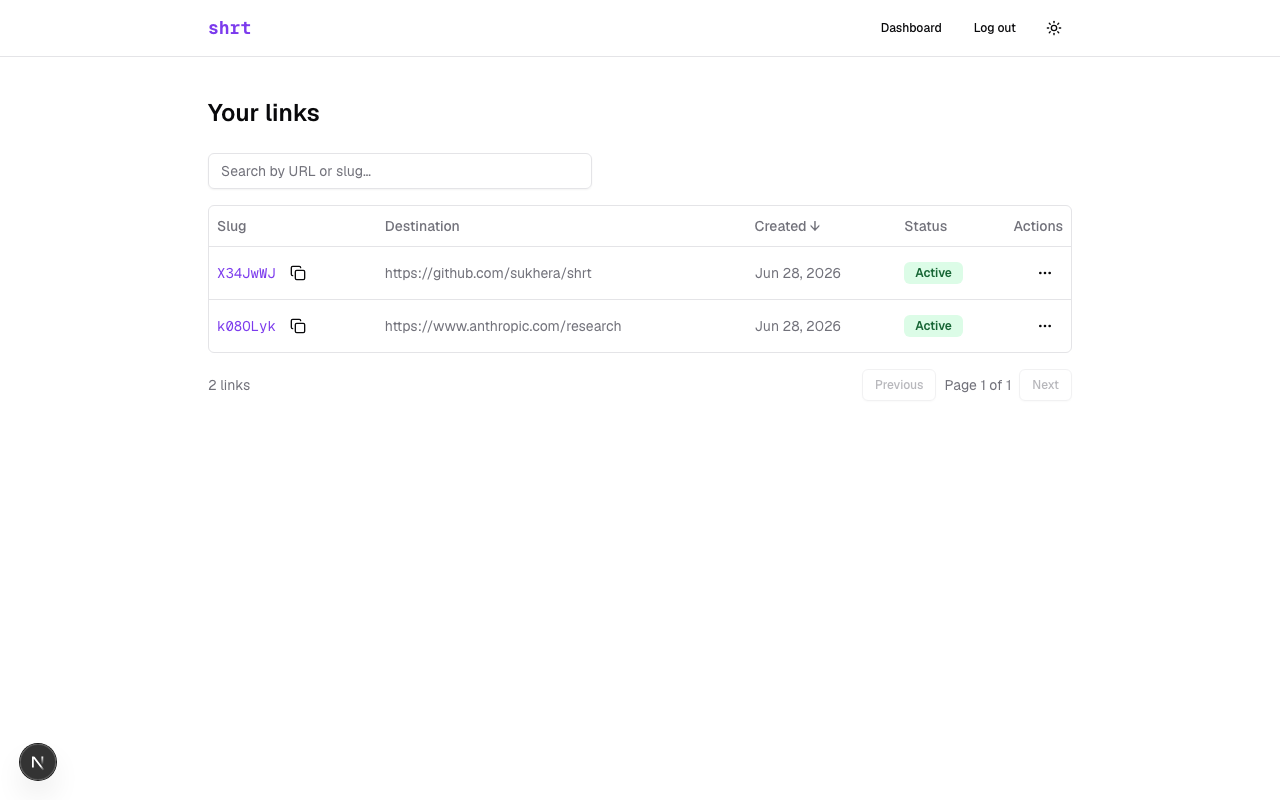
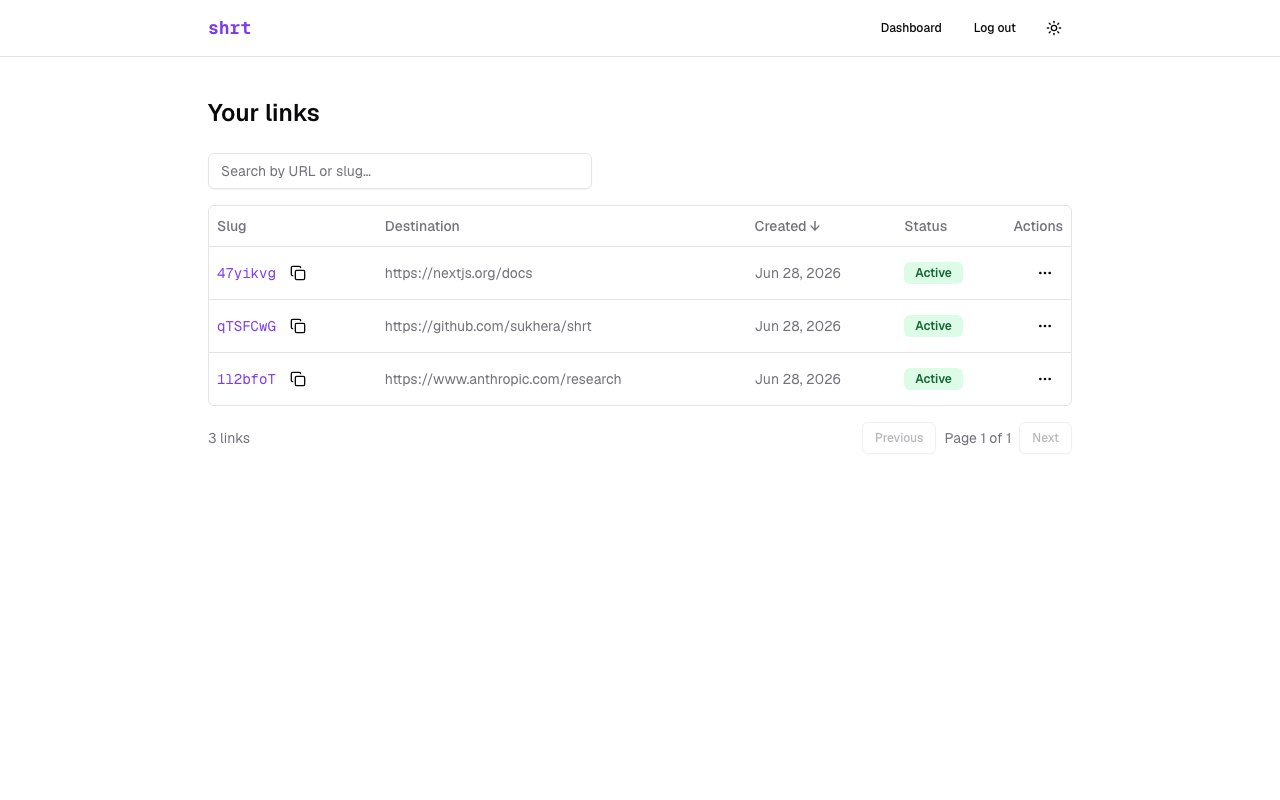
docs: polish README to OSS best practices, add LICENSE
- Rewrite README as a public-project README: centered hero, shields.io
  badges (license, Go, Next.js, TypeScript, PRs welcome), feature list,
  tech-stack table, quickstart, architecture overview, testing, and a
  configuration section
- Drop the deployment-options section (out of scope for the README)
- Recapture screenshots against a production build with BASE_URL set, so
  short URLs read https://shrt.app/<slug> and there is no dev-mode badge
- Add the MIT LICENSE file the README references (was claimed but missing)

diff --git a/README.md b/README.md
@@ -1,155 +1,150 @@
+<div align="center">
+
 # shrt
 
-A clean, self-hostable URL shortener. MIT licensed.
+**A clean, self-hostable URL shortener.**
 
-**Live instance:** coming soon  
-**Repository:** https://github.com/sukhera/shrt
+Shorten any URL in one click — no account required. Sign in to manage, edit,
+and track your links from a simple dashboard.
 
-## Stack
+[![License: MIT](https://img.shields.io/badge/License-MIT-violet.svg)](LICENSE)
+[![Go](https://img.shields.io/badge/Go-1.25+-00ADD8?logo=go&logoColor=white)](https://go.dev)
+[![Next.js](https://img.shields.io/badge/Next.js-16-000000?logo=next.js&logoColor=white)](https://nextjs.org)
+[![TypeScript](https://img.shields.io/badge/TypeScript-5-3178C6?logo=typescript&logoColor=white)](https://www.typescriptlang.org)
+[![PRs welcome](https://img.shields.io/badge/PRs-welcome-brightgreen.svg)](CONTRIBUTING.md)
 
-| Layer | Tech |
-|-------|------|
-| Backend | Go 1.25+, chi, sqlc, pgx/v5, go-redis/v9 |
-| Database | PostgreSQL 15 |
-| Cache | Redis 7 / Upstash |
-| Frontend | Next.js (latest stable), TypeScript, Tailwind, shadcn/ui |
-| Auth | JWT RS256 (access token 1h, refresh token 30d) |
+</div>
 
-## Features (v1)
-
-- Shorten any URL — no account required
-- Custom aliases and expiry dates for registered users
-- User dashboard to manage, edit, and delete links
-- Dark mode
-- Self-hostable with Docker Compose or any VPS
+---
 
 ## Screenshots
 
 | Home | Dashboard |
-|------|-----------|
+|:----:|:---------:|
 | ![Home page](docs/screenshots/home.png) | ![Dashboard](docs/screenshots/dashboard.png) |
 
-## Local development
+## Features
 
-### Prerequisites
+- **Instant shortening** — paste a URL and get a short link; no sign-up needed
+- **Custom aliases & expiry** — pick your own slug and an expiration date
+- **Dashboard** — search, sort, edit, and delete your links
+- **Fast redirects** — Redis cache-aside in front of Postgres
+- **Safe by default** — optional Google Safe Browsing checks, per-IP/user rate limiting
+- **Secure auth** — JWT (RS256) with httpOnly refresh-token cookies
+- **Dark mode** — system-aware, with a manual toggle
+- **Self-hostable** — a single Go binary plus a Next.js app; runs anywhere
 
-- Go 1.25+
-- Node 20+
-- Docker (for Postgres + Redis)
+## Tech stack
 
-### Setup
+| Layer | Technology |
+|-------|------------|
+| Backend | Go 1.25, [chi](https://github.com/go-chi/chi), [pgx](https://github.com/jackc/pgx), [sqlc](https://sqlc.dev), [go-redis](https://github.com/redis/go-redis) |
+| Database | PostgreSQL 15 |
+| Cache | Redis 7 |
+| Frontend | Next.js 16 (App Router), TypeScript, Tailwind CSS, [shadcn/ui](https://ui.shadcn.com) |
+| Auth | JWT RS256 — 1h access token, 30d refresh token |
+| Testing | `go test`, Playwright (E2E) |
+
+## Quick start
+
+**Prerequisites:** Go 1.25+, Node 20+, Docker, and `make`.
 
 ```bash
 # 1. Clone
 git clone https://github.com/sukhera/shrt.git
 cd shrt
 
-# 2. Environment
+# 2. Configure
 cp .env.example .env
-# Edit .env and fill in values
 
-# 3. Generate RSA key pair for JWT
+# 3. Generate the JWT signing keys
 mkdir -p backend/keys
 openssl genrsa -out backend/keys/private.pem 2048
 openssl rsa -in backend/keys/private.pem -pubout -out backend/keys/public.pem
 
-# 4. Install Go dev tools
+# 4. Install dev tools (air, sqlc, migrate, golangci-lint)
 make tools
 
-# 5. Start Postgres + Redis
+# 5. Start infrastructure, run migrations, and launch the app
 make docker-up
-
-# 6. Run migrations
 make migrate-up
-
-# 7. Start everything
 make dev
 ```
 
-- API: `http://localhost:8080`
-- Frontend: `http://localhost:3000`
-- Health check: `http://localhost:8080/health`
+| Service | URL |
+|---------|-----|
+| Frontend | http://localhost:3000 |
+| API | http://localhost:8080 |
+| Health | http://localhost:8080/health |
 
-`make dev` starts both the Go API (with hot reload via air) and Next.js together. Ctrl+C stops both. Use `make dev-api` or `make dev-web` to start them individually.
+`make dev` runs the API (hot-reload via [air](https://github.com/air-verse/air))
+and the frontend together; `Ctrl+C` stops both. Use `make dev-api` / `make dev-web`
+to run them separately.
 
-> `make dev` and `make dev-api` use [air](https://github.com/air-verse/air) for hot reload — `make tools` installs it. Without air, run the API directly:
+> **No air?** Run the API directly:
 > ```bash
 > cd backend && set -a && . ../.env && set +a && go run ./cmd/shrt
 > ```
 
-### Short URLs and `BASE_URL`
+> **Short-link domain.** Short URLs are built from `BASE_URL`. Locally this is the
+> API origin (`http://localhost:8080/<slug>`); in production set it to your public
+> short domain so links read as `https://your-domain/<slug>`.
 
-Generated short URLs are built from `BASE_URL`. In local dev this defaults to the
-API origin, so links render as `http://localhost:8080/<slug>`. In production, set
-`BASE_URL` to the public short domain (e.g. `https://shrt.example.com`) so links
-read correctly. The redirect server (`GET /<slug>`) must be reachable at that
-domain.
+## Architecture
+
+A single Go binary serves both the JSON API (`/api/v1/...`) and the redirect
+endpoint (`GET /<slug>`). Business logic lives in `store/` — there is no separate
+service layer; HTTP handlers only parse requests and write responses.
+
+```
+shrt/
+├── backend/
+│   ├── cmd/shrt/        # entry point
+│   ├── server/          # HTTP handlers, routing, middleware
+│   ├── store/           # business logic: DB, cache, slug gen, auth
+│   ├── internal/config/ # env loading (the only place os.Getenv is used)
+│   └── db/              # migrations + sqlc queries
+└── frontend/
+    ├── app/             # Next.js App Router pages + API routes
+    ├── components/      # ui/ (shadcn) and app/ (project components)
+    ├── hooks/ lib/      # TanStack Query hooks + typed API client
+    └── e2e/             # Playwright tests
+```
+
+Redirects use a Redis cache-aside: a slug lookup hits Redis first and falls back
+to Postgres on a miss, repopulating the cache. Cache failures never block a
+redirect. See [`IMPLEMENTATION-PLAN.md`](IMPLEMENTATION-PLAN.md) for the full
+design and the API contract.
 
 ## Testing
 
 ```bash
-# Backend — unit + integration tests (needs Postgres + Redis running)
-make test                       # go test -race ./...
+# Backend — unit + integration (needs Postgres + Redis running)
+make test
 
-# Frontend — type-check and lint
-cd frontend
-npm run type-check              # tsc --noEmit
-npm run lint                    # eslint .
+# Frontend — type-check + lint
+cd frontend && npm run type-check && npm run lint
 
 # End-to-end (Playwright) — needs the full stack running (make dev)
 cd frontend
-npx playwright install chromium # first run only
-npm run e2e                     # headless
-npm run e2e:ui                  # interactive inspector
+npx playwright install chromium   # first run only
+npm run e2e                       # or: npm run e2e:ui
 ```
 
 The E2E suite covers the critical paths: anonymous shorten → copy → redirect;
 register → login → create → edit → delete; and the expired-link 410 response.
 
-## CI checks
+## Configuration
 
-Run these locally before opening a PR (both must pass):
-
-```bash
-# Backend
-cd backend && go vet ./... && golangci-lint run ./... && go test -race ./... && go build ./cmd/shrt
-
-# Frontend
-cd frontend && npm run type-check && npm run lint && npm run build
-```
-
-> GitHub Actions CI is temporarily disabled (billing); restore the workflows from
-> git history once resolved. Until then these local checks are the gate.
-
-## Deployment options
-
-### Railway (simplest)
-
-Deploy the backend as a Railway service with a Railway Postgres and Upstash Redis add-on. Set all env vars in Railway's dashboard. Estimated cost: ~$5/month.
-
-### Hetzner VPS + Docker
-
-Run the backend in Docker on a Hetzner CX11 (~€4/month). Use Neon (free tier) for Postgres and Upstash (free tier) for Redis. Use Caddy as a reverse proxy for automatic HTTPS.
-
-### Frontend
-
-Deploy the Next.js frontend to Vercel (free tier). Set `NEXT_PUBLIC_API_URL` to
-your backend URL. The auth route handlers run server-side, so also set `API_URL`
-(it falls back to `NEXT_PUBLIC_API_URL`, then `http://localhost:8080`).
-
-### Production checklist
-
-- Run migrations against the production database: `migrate -path backend/db/migrations -database "$DATABASE_URL" up`
-- Set `ENV=production` (enables `Secure` cookies and stricter behaviour)
-- Set `BASE_URL` to your short domain and `FRONTEND_URL` to the deployed frontend origin (CORS allowlist)
-- Provide the JWT key pair via `JWT_PRIVATE_KEY_PATH` / `JWT_PUBLIC_KEY_PATH` (never commit `backend/keys/`)
-- Terminate HTTPS at the reverse proxy (Caddy/Vercel handle this automatically); the app expects to run behind a trusted proxy that sets `X-Forwarded-For`
-- Optionally set `SAFE_BROWSING_API_KEY` to enable Google Safe Browsing checks
+All configuration is via environment variables, documented in
+[`.env.example`](.env.example). The backend refuses to start if a required
+variable is missing. Never commit `.env` or `backend/keys/`.
 
 ## Contributing
 
-See [CONTRIBUTING.md](CONTRIBUTING.md).
+Contributions are welcome! See [CONTRIBUTING.md](CONTRIBUTING.md) for local setup,
+the branch/PR workflow, required checks, and code style.
 
 ## License
 
-MIT
+[MIT](LICENSE) © Ahmed Sukhera